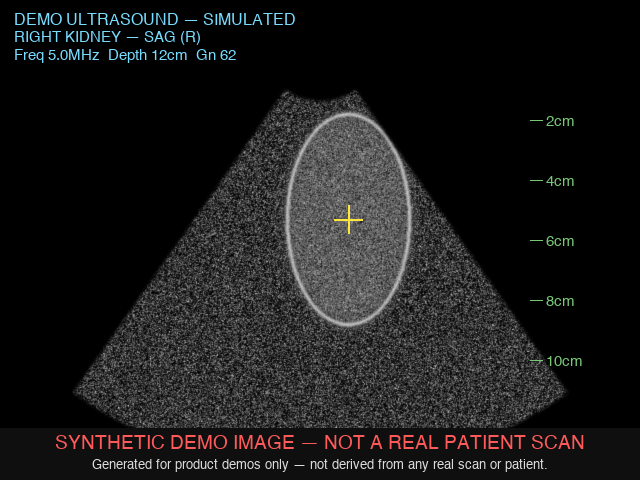
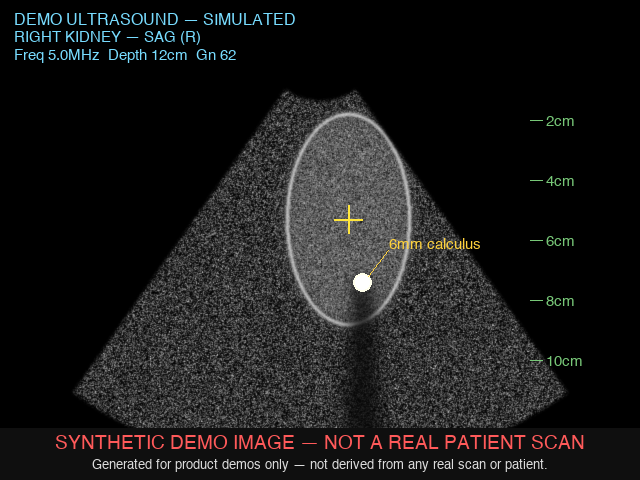
Give the demo ultrasounds a right-kidney stone, so sides differ
Both demo Imaging reports (male and female) previously showed the
same normal finding on both kidneys. The right kidney now shows a
6mm nonobstructing calculus (bright echogenic focus + posterior
acoustic shadowing, labelled on the image) while the left stays
normal, so clicking each kidney in the 3D model/2D diagram actually
shows a different image and finding, and the report now correctly
badges as Abnormal instead of Normal.

Changed region(s): [[0.5312, 0.5625, 0.5938, 0.9062], [0.5938, 0.5, 0.75, 0.5312]]

diff --git a/scripts/seed-dev.js b/scripts/seed-dev.js
@@ -284,47 +284,54 @@ async function main() {
     img(['ovaries'], 'Right ovary', 'Transverse', 'female-right-ovary-trv.png'),
     img(['ovaries'], 'Left ovary', 'Transverse', 'female-left-ovary-trv.png'),
   ];
+  // The right kidney carries a small nonobstructing stone (see gen-ultrasound.py) so the two sides
+  // — and the report's own Normal/Abnormal badge — visibly differ, instead of a purely-normal demo.
+  const MALE_FINDINGS = 'Right kidney: normal size and echotexture, 10.8 cm, with a 6 mm echogenic focus with posterior '
+    + 'acoustic shadowing in the lower pole collecting system, consistent with a nonobstructing calculus. No hydronephrosis. '
+    + 'Left kidney: normal size and echotexture, 11.0 cm, no hydronephrosis or calculi. '
+    + 'Bladder: normal wall thickness, no masses; post-void residual 15 mL. '
+    + 'Prostate: normal size and contour, estimated volume 22 mL, no focal lesion. '
+    + 'Impression: 6 mm nonobstructing right renal calculus; otherwise normal renal, bladder and prostate ultrasound.';
+  const FEMALE_FINDINGS = 'Right kidney: normal size and echotexture, 10.5 cm, with a 6 mm echogenic focus with posterior '
+    + 'acoustic shadowing in the lower pole collecting system, consistent with a nonobstructing calculus. No hydronephrosis. '
+    + 'Left kidney: normal size and echotexture, 10.7 cm, no hydronephrosis or calculi. '
+    + 'Bladder: normal wall thickness, no masses; well distended at time of scan. '
+    + 'Uterus: anteverted, normal size and contour, endometrial stripe within normal limits. '
+    + 'Ovaries: both normal in size with a normal follicular pattern; no adnexal mass. '
+    + 'Impression: 6 mm nonobstructing right renal calculus; otherwise normal renal and pelvic ultrasound.';
   if (!(await TestReport.exists({ userId: demo._id, 'results.imaging.bodyRegion': /prostate/i }))) {
     const scan = (testName, daysAgoN, imaging) => TestReport.create({
       userId: demo._id, testName, testType: 'Imaging', testDate: new Date(Date.now() - daysAgoN * 86400000),
       results: { imaging },
       doctor: { name: 'Dr. Whitfield', clinic: 'Riverside Radiology' },
       notes: 'Reference example for product demos — not a real scan.',
-      normal: true,
+      normal: false,
     });
     await scan('Ultrasound — Kidneys, bladder and prostate', 45, {
       modality: 'Ultrasound', bodyRegion: 'Kidneys, bladder and prostate',
-      findings: 'Right kidney: normal size and echotexture, 10.8 cm, no hydronephrosis or calculi. '
-        + 'Left kidney: normal size and echotexture, 11.0 cm, no hydronephrosis or calculi. '
-        + 'Bladder: normal wall thickness, no masses; post-void residual 15 mL. '
-        + 'Prostate: normal size and contour, estimated volume 22 mL, no focal lesion. '
-        + 'Impression: normal renal, bladder and prostate ultrasound; no evidence of obstruction or calculi.',
+      findings: MALE_FINDINGS,
       images: MALE_SCAN_IMAGES,
     });
     await scan('Ultrasound — Kidneys, bladder, uterus and ovaries', 45, {
       modality: 'Ultrasound', bodyRegion: 'Kidneys, bladder, uterus and ovaries',
-      findings: 'Right kidney: normal size and echotexture, 10.5 cm, no hydronephrosis or calculi. '
-        + 'Left kidney: normal size and echotexture, 10.7 cm, no hydronephrosis or calculi. '
-        + 'Bladder: normal wall thickness, no masses; well distended at time of scan. '
-        + 'Uterus: anteverted, normal size and contour, endometrial stripe within normal limits. '
-        + 'Ovaries: both normal in size with a normal follicular pattern; no adnexal mass. '
-        + 'Impression: normal renal, bladder and pelvic ultrasound; no sonographic abnormality.',
+      findings: FEMALE_FINDINGS,
       images: FEMALE_SCAN_IMAGES,
     });
     console.log('Added demo ultrasound reports');
   } else {
-    // Backfill: reports created by an older version of this seed predate the `images` library
-    // feature and lack it. Re-running the seed should still upgrade them (see file header).
+    // Backfill: reports created by an older version of this seed predate the `images` library and
+    // the right-kidney-stone finding. Re-running the seed should still upgrade them (see file header).
     const male = await TestReport.findOne({ userId: demo._id, 'results.imaging.bodyRegion': /prostate/i });
     const female = await TestReport.findOne({ userId: demo._id, 'results.imaging.bodyRegion': /uterus/i });
-    for (const [report, images] of [[male, MALE_SCAN_IMAGES], [female, FEMALE_SCAN_IMAGES]]) {
+    for (const [report, images, findings] of [[male, MALE_SCAN_IMAGES, MALE_FINDINGS], [female, FEMALE_SCAN_IMAGES, FEMALE_FINDINGS]]) {
       if (!report) continue;
       const imaging = report.results.get('imaging');
-      if (imaging && !imaging.images) {
-        report.results.set('imaging', { ...imaging, images });
+      if (imaging && (!imaging.images || imaging.findings !== findings)) {
+        report.results.set('imaging', { ...imaging, images, findings });
+        report.normal = false;
         report.markModified('results');
         await report.save();
-        console.log(`Backfilled scan images onto "${report.testName}"`);
+        console.log(`Backfilled scan images/findings onto "${report.testName}"`);
       }
     }
   }
